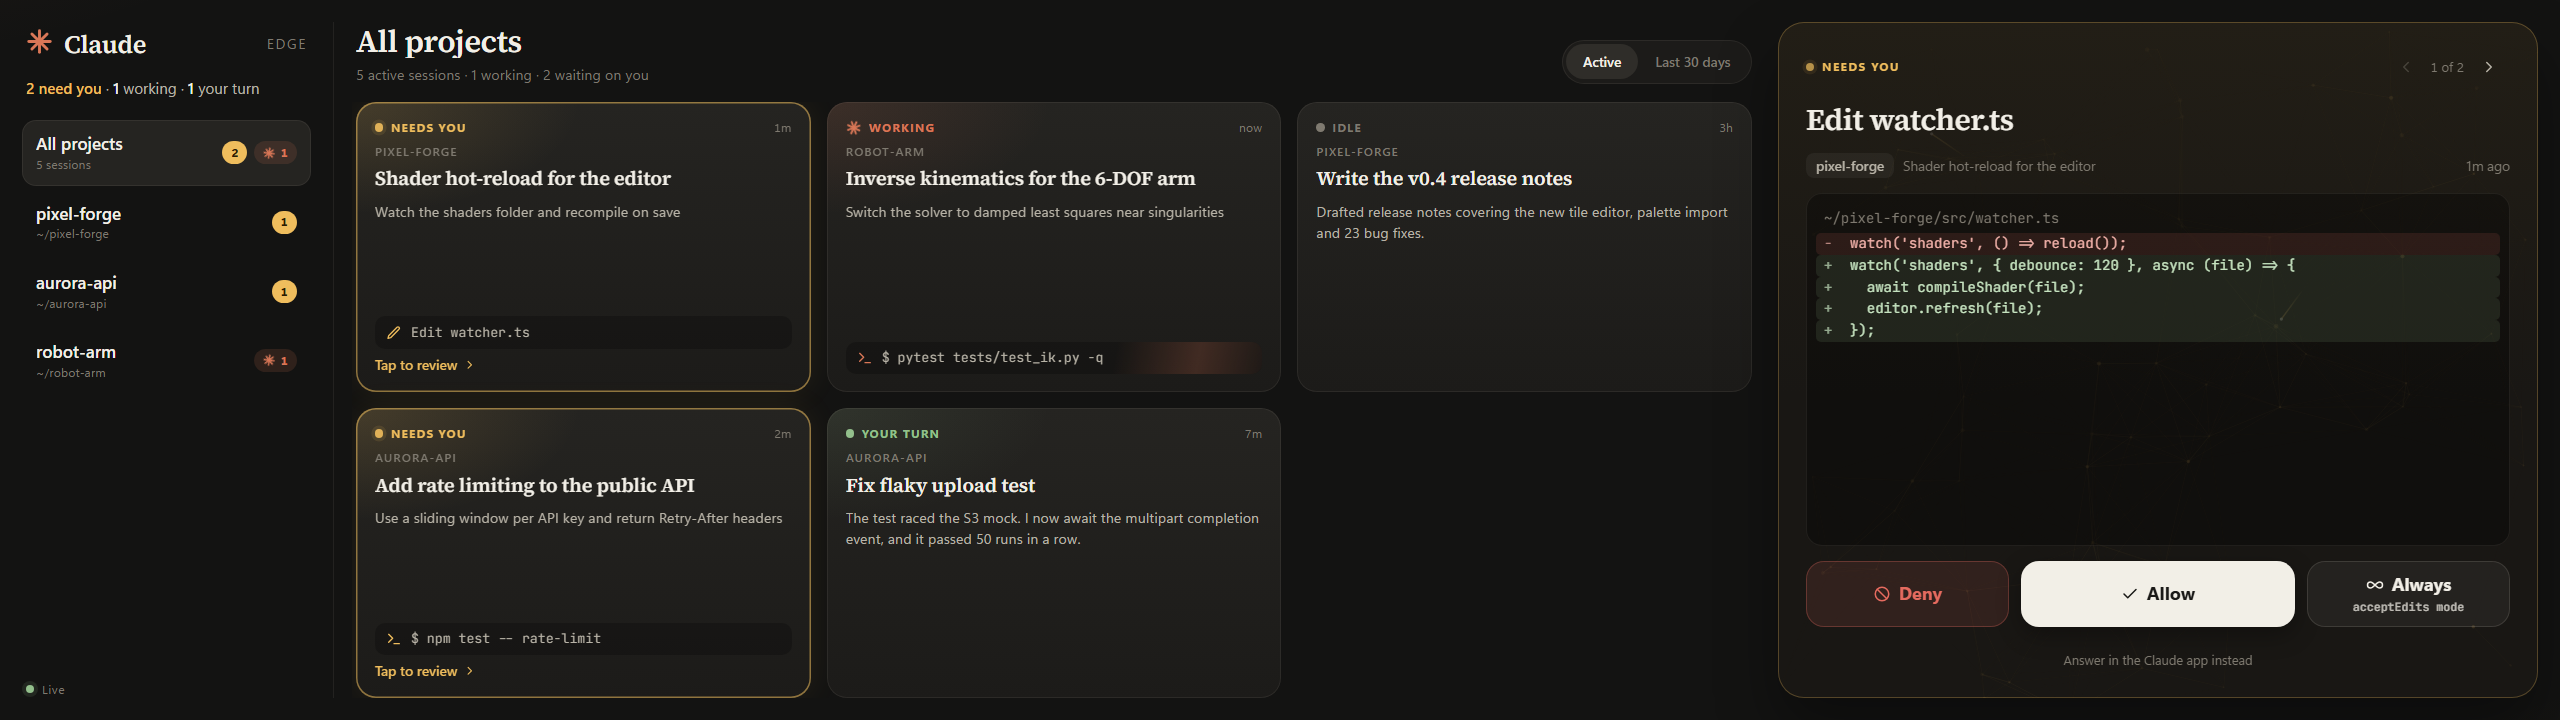
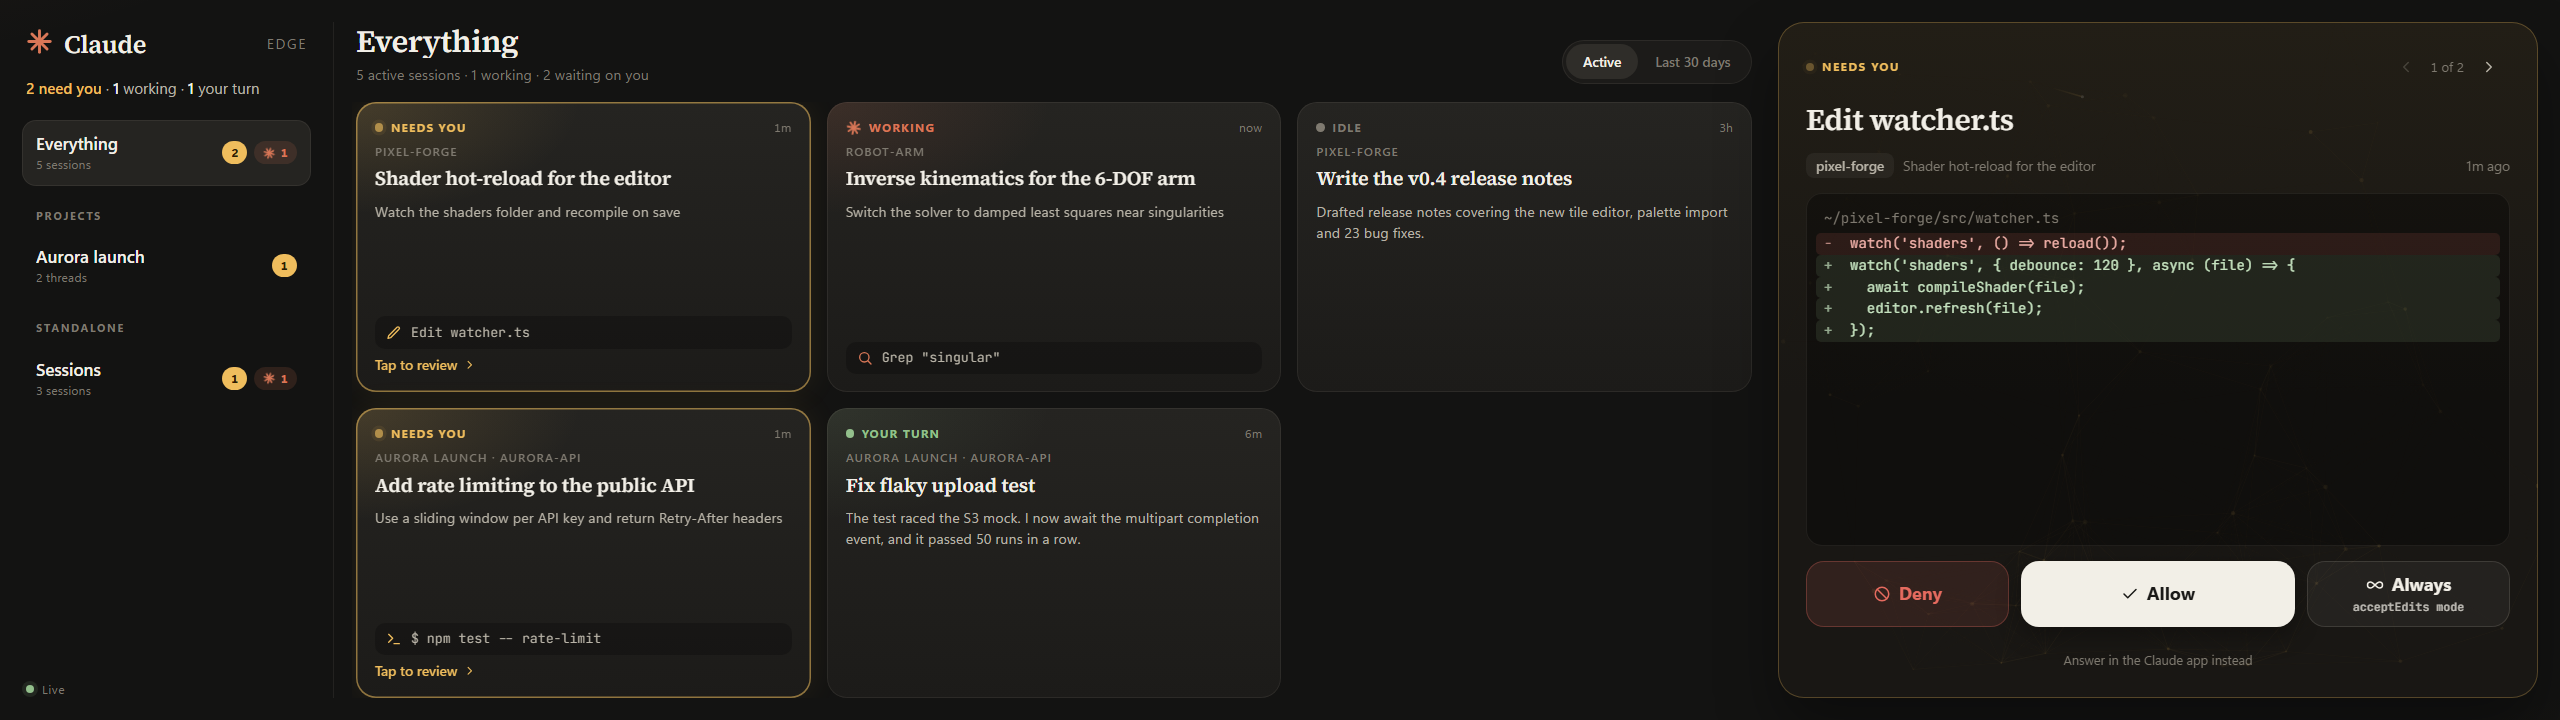
Group by claude.ai Project instead of folder
The rail now has two sections: Projects, whose threads are grouped by the
coordinator session that sends them work, and Standalone sessions, listed
by title. A Project's name comes from a "[project: Name]" label its
instructions add to task notes; unlabeled ones show as "Unnamed project".
Folder and machine move onto the cards as details.

diff --git a/server.js b/server.js
@@ -85,9 +85,15 @@ const matchKey = (tool, input) => `${tool}|${stable(input || {})}`;
 // Threads started from a claude.ai Project receive their prompts wrapped in a
 // <project_claude_message> envelope: <cited> messages for context (from the coordinator or
 // from you) and a <note> with this thread's task. Turn that into readable text and a title.
+// A Project's threads all name the same coordinator session, so that groups them. The Project's
+// own name only arrives if its instructions add a label like "[project: GO2 Embodied AI]".
+const LABEL_RE = /\[project:\s*([^\]\n]{1,60})\]\s*/i;
 const stripMd = (t) => t.replace(/\*\*|__|`/g, '').replace(/\s+/g, ' ').trim();
-function unwrapEnvelope(text) {
-  if (typeof text !== 'string' || !/^\s*<project_claude_message\b/.test(text)) return null;
+function unwrapEnvelope(raw) {
+  if (typeof raw !== 'string' || !/^\s*<project_claude_message\b/.test(raw)) return null;
+  const label = (LABEL_RE.exec(raw) || [])[1];
+  const text = raw.replace(new RegExp(LABEL_RE.source, 'gi'), '');
+  const coordinator = (/<relay\b[^>]*\bsession="([^"]+)"/.exec(text) || /<project_claude_message\b[^>]*\bsession="([^"]+)"/.exec(text) || [])[1];
   const notes = [...text.matchAll(/<note>([\s\S]*?)<\/note>/g)].map((m) => m[1].trim()).filter(Boolean);
   const yours = [...text.matchAll(/<cited\b([^>]*)>([\s\S]*?)<\/cited>/g)]
     .filter((m) => /author="user"/.test(m[1])).map((m) => m[2].trim()).filter(Boolean);
@@ -99,8 +105,12 @@ function unwrapEnvelope(text) {
   const parts = [];
   if (said) parts.push(`You: ${said}`);
   if (task) parts.push(`Task from the project: ${task}`);
-  return { title: clip(first, 90) || null, text: parts.join('\n\n') || 'Message from the project coordinator' };
+  return { title: clip(first, 90) || null, text: parts.join('\n\n') || 'Message from the project coordinator',
+    coordinator: coordinator || null, label: label ? label.trim() : null };
 }
+
+// Project names learned from labels, keyed by coordinator session; kept across restarts.
+const projectLabels = {};
 
 // Sessions on other machines have no transcript we can read, so keep a short log from their hooks.
 function logItem(s, item) {
@@ -119,6 +129,9 @@ function onHook(ev, req, res, machine) {
   if (env) {
     s.projectThread = true;
     if (env.title) s.envelopeTitle = env.title;
+    if (env.coordinator) s.projectId = env.coordinator;
+    if (env.label && env.coordinator) projectLabels[env.coordinator] = env.label;
+    if (env.label) s.projectLabel = env.label;
     ev = { ...ev, prompt: env.text };
   }
   switch (ev.hook_event_name) {
@@ -249,9 +262,13 @@ function readHead(file, bytes) {
   finally { fs.closeSync(fd); }
 }
 
-function promptText(o) {
+function rawText(o) {
   const c = o.message && o.message.content;
-  const t = typeof c === 'string' ? c : Array.isArray(c) ? (c.find((x) => x.type === 'text') || {}).text : null;
+  return typeof c === 'string' ? c : Array.isArray(c) ? (c.find((x) => x.type === 'text') || {}).text : null;
+}
+
+function promptText(o) {
+  const t = rawText(o);
   const env = unwrapEnvelope(t);
   if (env) return env.text;
   return t && !t.startsWith('<') ? t : null;
@@ -282,7 +299,14 @@ function scanTranscripts() {
           let o; try { o = JSON.parse(line); } catch { continue; }
           if (o.cwd && !s.cwd) s.cwd = o.cwd;
           if (o.type === 'summary' && o.summary && !s.summary) s.summary = o.summary;
-          if (o.type === 'user' && !o.isMeta && !s.firstPrompt) { const t = promptText(o); if (t) s.firstPrompt = clip(t, 200); }
+          if (o.type === 'user' && !o.isMeta && !s.firstPrompt) {
+            const env = unwrapEnvelope(rawText(o));
+            if (env) {
+              s.projectThread = true; s.envelopeTitle = env.title; s.projectId = env.coordinator;
+              if (env.label && env.coordinator) projectLabels[env.coordinator] = env.label;
+            }
+            const t = promptText(o); if (t) s.firstPrompt = clip(t, 200);
+          }
           if (s.cwd && s.firstPrompt) break;
         }
       } catch {}
@@ -343,7 +367,10 @@ function snapshot() {
     const dir = projectDir(s.projectCwd || s.cwd);
     const fallback = `Session in ${projectName(dir)}${s.machine ? ` on ${s.machine}` : ''}`;
     const lastPrompt = s.lastPrompt && s.lastPrompt.startsWith('<project_claude_message') ? (unwrapEnvelope(s.lastPrompt) || {}).text : s.lastPrompt;
-    list.push({ id: s.id, title: titleOf(s) || fallback, untitled: !titleOf(s), machine: s.machine || null, projectThread: !!s.projectThread,
+    const group = s.projectThread
+      ? { groupKind: 'project', groupKey: `project:${s.projectId || 'unknown'}`, groupName: projectLabels[s.projectId] || s.projectLabel || 'Unnamed project' }
+      : { groupKind: 'standalone', groupKey: 'standalone', groupName: 'Standalone sessions' };
+    list.push({ id: s.id, title: titleOf(s) || fallback, untitled: !titleOf(s), machine: s.machine || null, projectThread: !!s.projectThread, ...group,
       project: s.machine ? `${s.machine}:${dir}` : dir, projectPath: dir, projectName: projectName(dir),
       status, live: s.live, desktop: s.desktop, lastActivity: s.lastActivity, activity: s.activity, activityTool: s.activityTool,
       lastPrompt, lastMessage: s.lastMessage, mode: s.mode, pending: pendingBySession[s.id] || 0 });
@@ -378,16 +405,19 @@ function saveState() {
     saveTimer = null;
     const keep = [...sessions.values()].filter((s) => s.machine && Date.now() - s.lastActivity < HISTORY_DAYS * 864e5)
       .map(({ demoTranscript, ...s }) => s);
-    fs.writeFile(STATE_FILE, JSON.stringify(keep), () => {});
+    fs.writeFile(STATE_FILE, JSON.stringify({ sessions: keep, labels: projectLabels }), () => {});
   }, 2000);
 }
 function loadState() {
-  let list = [];
-  try { list = JSON.parse(fs.readFileSync(STATE_FILE, 'utf8')); } catch {}
+  let saved = {};
+  try { saved = JSON.parse(fs.readFileSync(STATE_FILE, 'utf8')); } catch {}
+  const list = Array.isArray(saved) ? saved : saved.sessions || [];
+  Object.assign(projectLabels, saved.labels || {});
   for (const s of list) {
     // Whatever it was doing before the restart is unknown now.
     if (s.status === 'working' || s.status === 'approval') { s.status = 'idle'; s.activity = null; }
-    if (String(s.firstPrompt).startsWith('<project_claude_message')) s.projectThread = true;
+    const env = unwrapEnvelope(s.firstPrompt); // sessions saved before envelopes were understood
+    if (env) { s.projectThread = true; s.projectId = s.projectId || env.coordinator; }
     sessions.set(s.id, s);
   }
 }
@@ -509,6 +539,8 @@ function seedDemo() {
     lastPrompt: 'Switch the solver to damped least squares near singularities', activityTool: 'Grep', activity: 'Grep "jacobian"' });
   add('d5', { title: 'Write the v0.4 release notes', projectCwd: '/home/dev/pixel-forge', status: 'idle', live: false, lastActivity: t - 3 * 3600e3,
     lastMessage: 'Drafted release notes covering the new tile editor, palette import and 23 bug fixes.' });
+  projectLabels['demo-coordinator'] = 'Aurora launch';
+  for (const id of ['d1', 'd2']) Object.assign(sessions.get(id), { projectThread: true, projectId: 'demo-coordinator' });
   sessions.get('d4').demoTranscript = [
     { role: 'user', text: 'Switch the solver to damped least squares near singularities' },
     { role: 'assistant', text: "I'll look at how the current solver builds the **Jacobian**, then add damping that ramps up as the arm nears a singular pose." },

diff --git a/public/index.html b/public/index.html
@@ -69,6 +69,8 @@
   .proj:active { background: var(--surface-2); }
   .proj.sel { background: var(--surface-2); box-shadow: inset 0 0 0 1px var(--hair); }
   .proj-name { font-weight: 600; font-size: .85rem; white-space: nowrap; overflow: hidden; text-overflow: ellipsis; }
+  .rail-h { margin: .9rem .7rem .3rem; color: var(--text-3); font-size: .56rem; font-weight: 700; letter-spacing: .14em; text-transform: uppercase; }
+  .proj.unnamed .proj-name { font-style: italic; font-weight: 500; color: var(--text-2); }
   .mtag { display: inline-block; vertical-align: .1em; margin-left: .4rem; padding: .05rem .4rem; border-radius: .35rem; font-size: .56rem; font-weight: 600;
     letter-spacing: .04em; color: var(--text-2); background: rgba(255, 255, 255, .07); font-family: var(--mono); }
   .card-title.untitled { font-weight: 400; font-style: italic; color: var(--text-2); }
@@ -455,38 +457,48 @@ function renderRail() {
   if (c.idle) parts.push(`<b>${c.idle}</b> your turn`);
   setHTML('summary', parts.join(' · ') || 'All quiet');
 
+  // Rail groups: claude.ai Projects (threads share a coordinator) and standalone sessions.
   const groups = new Map();
   for (const s of data.sessions) {
     if (ui.filter === 'active' && !isActive(s)) continue;
-    const g = groups.get(s.project) || { key: s.project, name: s.projectName, path: s.projectPath, machine: s.machine, n: 0, pend: 0, work: 0, last: 0 };
+    const g = groups.get(s.groupKey) || { key: s.groupKey, kind: s.groupKind, name: s.groupName, machines: new Set(), n: 0, pend: 0, work: 0, last: 0 };
     const st = status(s);
     g.n++; g.pend += st === 'approval' ? 1 : 0; g.work += st === 'working' ? 1 : 0; g.last = Math.max(g.last, s.lastActivity);
-    groups.set(s.project, g);
+    if (s.machine) g.machines.add(s.machine);
+    groups.set(s.groupKey, g);
   }
-  const list = [...groups.values()].sort((a, b) => b.pend - a.pend || b.work - a.work || b.last - a.last);
-  const total = list.reduce((a, g) => ({ n: a.n + g.n, pend: a.pend + g.pend, work: a.work + g.work }), { n: 0, pend: 0, work: 0 });
+  const byUrgency = (a, b) => b.pend - a.pend || b.work - a.work || b.last - a.last;
+  const projects = [...groups.values()].filter((g) => g.kind === 'project').sort(byUrgency);
+  const standalone = groups.get('standalone');
+  const total = [...groups.values()].reduce((a, g) => ({ n: a.n + g.n, pend: a.pend + g.pend, work: a.work + g.work }), { n: 0, pend: 0, work: 0 });
   const meta = (g) => (g.pend ? `<span class="tag amber">${g.pend}</span>` : '') +
     (g.work ? `<span class="tag accent">${star(true)}${g.work}</span>` : '') +
     (!g.pend && !g.work ? `<span class="count">${g.n}</span>` : '');
-  const row = (key, name, sub, g) => `<button class="proj ${ui.project === key ? 'sel' : ''}" data-act="project" data-key="${esc(key ?? '')}" ${key === null ? 'data-all' : ''}>
-      <span class="proj-name">${esc(name)}${g.machine ? `<span class="mtag">${esc(g.machine)}</span>` : ''}</span><span class="proj-meta">${meta(g)}</span>
+  const plural = (n, w) => `${n} ${w}${n === 1 ? '' : 's'}`;
+  const row = (key, name, sub, g, cls = '') => `<button class="proj ${cls} ${ui.project === key ? 'sel' : ''}" data-act="project" data-key="${esc(key ?? '')}" ${key === null ? 'data-all' : ''}>
+      <span class="proj-name">${esc(name)}</span><span class="proj-meta">${meta(g)}</span>
       <span class="proj-path">${esc(sub)}</span></button>`;
-  setHTML('projects', row(null, 'All projects', `${total.n} session${total.n === 1 ? '' : 's'}`, total) +
-    list.map((g) => row(g.key, g.name, shortPath(g.path) || 'unknown folder', g)).join(''));
+  const where = (g) => (g.machines.size ? ` · ${[...g.machines].join(', ')}` : '');
+  setHTML('projects', row(null, 'Everything', plural(total.n, 'session'), total) +
+    (projects.length ? `<div class="rail-h">Projects</div>` + projects.map((g) =>
+      row(g.key, g.name, plural(g.n, 'thread') + where(g), g, g.name === 'Unnamed project' ? 'unnamed' : '')).join('') : '') +
+    (standalone ? `<div class="rail-h">Standalone</div>` + row('standalone', 'Sessions', plural(standalone.n, 'session') + where(standalone), standalone) : ''));
 }
 
 // ---------- center ----------
 function visibleSessions() {
   const rank = { approval: 0, working: 1, idle: 2 };
-  return data.sessions.filter((s) => (ui.project === null || s.project === ui.project) && (ui.filter === 'all' || isActive(s)))
+  return data.sessions.filter((s) => (ui.project === null || s.groupKey === ui.project) && (ui.filter === 'all' || isActive(s)))
     .sort((a, b) => (rank[status(a)] ?? 3) - (rank[status(b)] ?? 3) || b.lastActivity - a.lastActivity);
 }
 
 function renderCenter() {
   const list = visibleSessions();
-  const projName = ui.project === null ? 'All projects' : (data.sessions.find((s) => s.project === ui.project) || {}).projectName || base(ui.project);
+  const grp = ui.project === null ? null : data.sessions.find((s) => s.groupKey === ui.project);
+  const projName = ui.project === null ? 'Everything' : ui.project === 'standalone' ? 'Standalone sessions' : grp ? grp.groupName : 'Project';
+  const noun = grp && grp.groupKind === 'project' ? 'thread' : 'session';
   const c = counts(list);
-  const sub = [`${list.length} ${ui.filter === 'active' ? 'active ' : ''}session${list.length === 1 ? '' : 's'}`,
+  const sub = [`${list.length} ${ui.filter === 'active' ? 'active ' : ''}${noun}${list.length === 1 ? '' : 's'}`,
     c.working && `${c.working} working`, c.approval && `${c.approval} waiting on you`].filter(Boolean).join(' · ');
   setHTML('centerHead', `<div style="min-width:0"><h1>${esc(projName)}</h1><div class="sub">${esc(sub)}</div></div>
     <div class="seg">${['active', 'all'].map((f) => `<button class="${ui.filter === f ? 'sel' : ''}" data-act="filter" data-key="${f}">${f === 'active' ? 'Active' : 'Last 30 days'}</button>`).join('')}</div>`);
@@ -520,7 +532,7 @@ function cardHtml(s) {
   }
   return `<button class="card st-${st} ${ui.session === s.id ? 'sel' : ''}" data-act="session" data-key="${esc(s.id)}">
     <div class="card-top">${statusHtml(st)}<span class="time">${ago(s.lastActivity)}</span></div>
-    ${ui.project === null || s.machine || s.projectThread ? `<div class="card-proj">${esc([ui.project === null && s.projectName, s.machine, s.projectThread && 'project thread'].filter(Boolean).join(' · '))}</div>` : ''}
+    <div class="card-proj">${esc([ui.project === null && s.groupKind === 'project' && s.groupName, s.projectName, s.machine].filter(Boolean).join(' · '))}</div>
     <div class="card-title${s.untitled ? ' untitled' : ''}">${esc(s.title)}</div>
     ${said ? `<div class="preview">${esc(said)}</div>` : ''}
     <div class="card-foot">${foot}</div></button>`;

diff --git a/README.md b/README.md
@@ -76,6 +76,18 @@ Cards from other machines are labelled with the machine's name. Their thread vie
 
 Each machine's token can only send events. It can't read the dashboard or approve anything, so a token sniffed from the plain-HTTP LAN traffic can't be used to approve or deny requests.
 
+### claude.ai Projects
+
+Threads started from a claude.ai Project are grouped under that Project on the rail; everything else is listed under **Standalone** by its session title. The dashboard recognizes a Project thread from the envelope its coordinator wraps prompts in, and groups threads that share a coordinator.
+
+The envelope doesn't carry the Project's name, so the dashboard reads it from a label. Add this to your Project's instructions:
+
+```text
+When you hand a task to a thread, start your note with [project: GO2 Embodied AI].
+```
+
+Use your Project's name. Until a Project's threads carry the label, its group is shown as *Unnamed project*. The label is removed from titles.
+
 ### Try it without Claude Code
 
 ```sh
